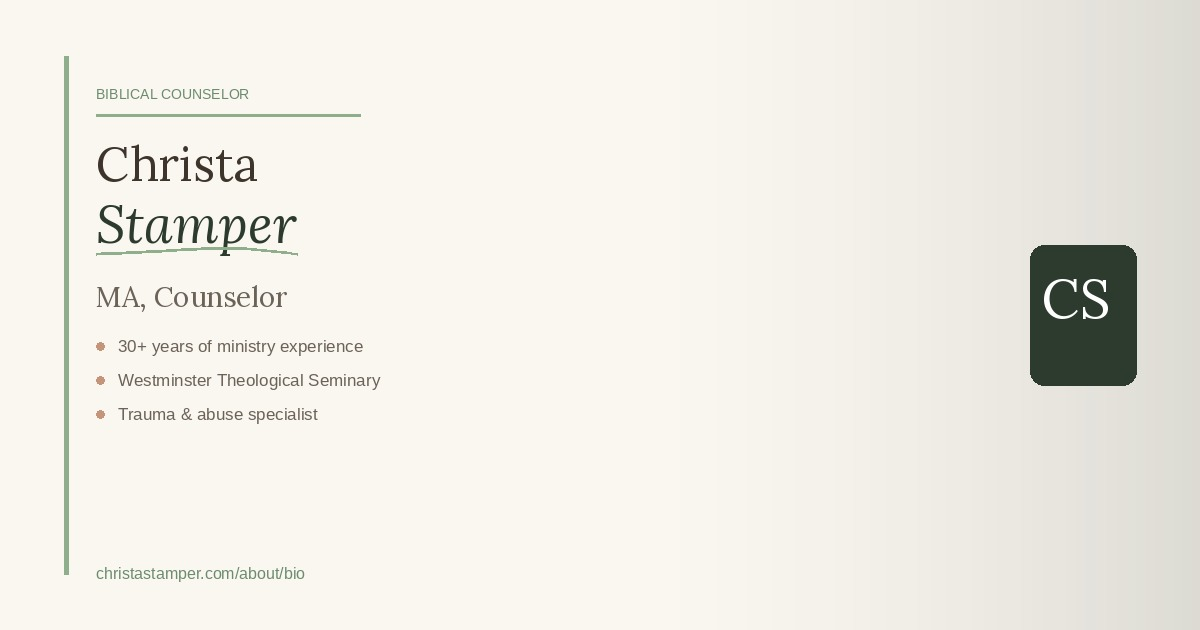
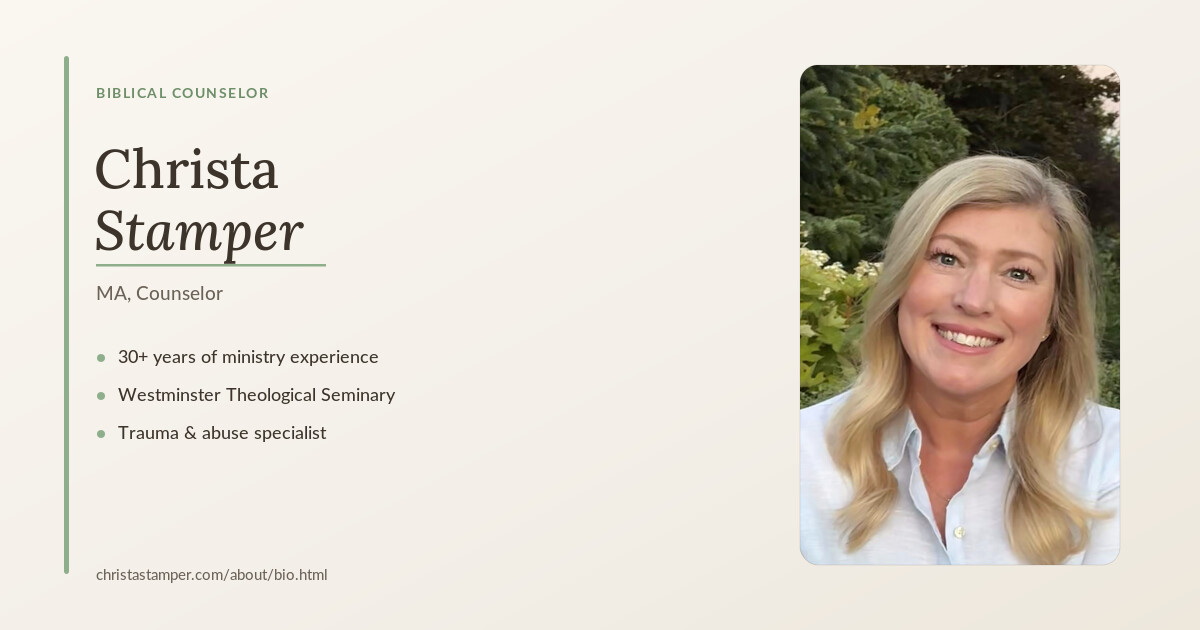
Update

diff --git a/index.html b/index.html
@@ -100,7 +100,8 @@
     <div class="wrap hero-inner">
       <p class="eyebrow center">Biblically Rooted &amp; Trauma Informed Counseling<br>Available Virtually</p>
       <h1 class="hero-title">
-        Grace for today.<br/>Hope for <span class="swash-wrap">tomorrow<svg class="swash" viewBox="0 0 180 24" aria-hidden="true"><path d="M2 16 Q 44 4, 90 14 T 176 10" /></svg></span>.
+        Grace for today.<br>
+        Hope for <span class="swash-wrap">tomorrow<svg class="swash" viewBox="0 0 180 24" aria-hidden="true"><path d="M2 16 Q 44 4, 90 14 T 176 10" /></svg></span>.
       </h1>
       <p class="hero-sub center">Helping you see your story through God&rsquo;s story</p>
       <div class="hero-actions">
